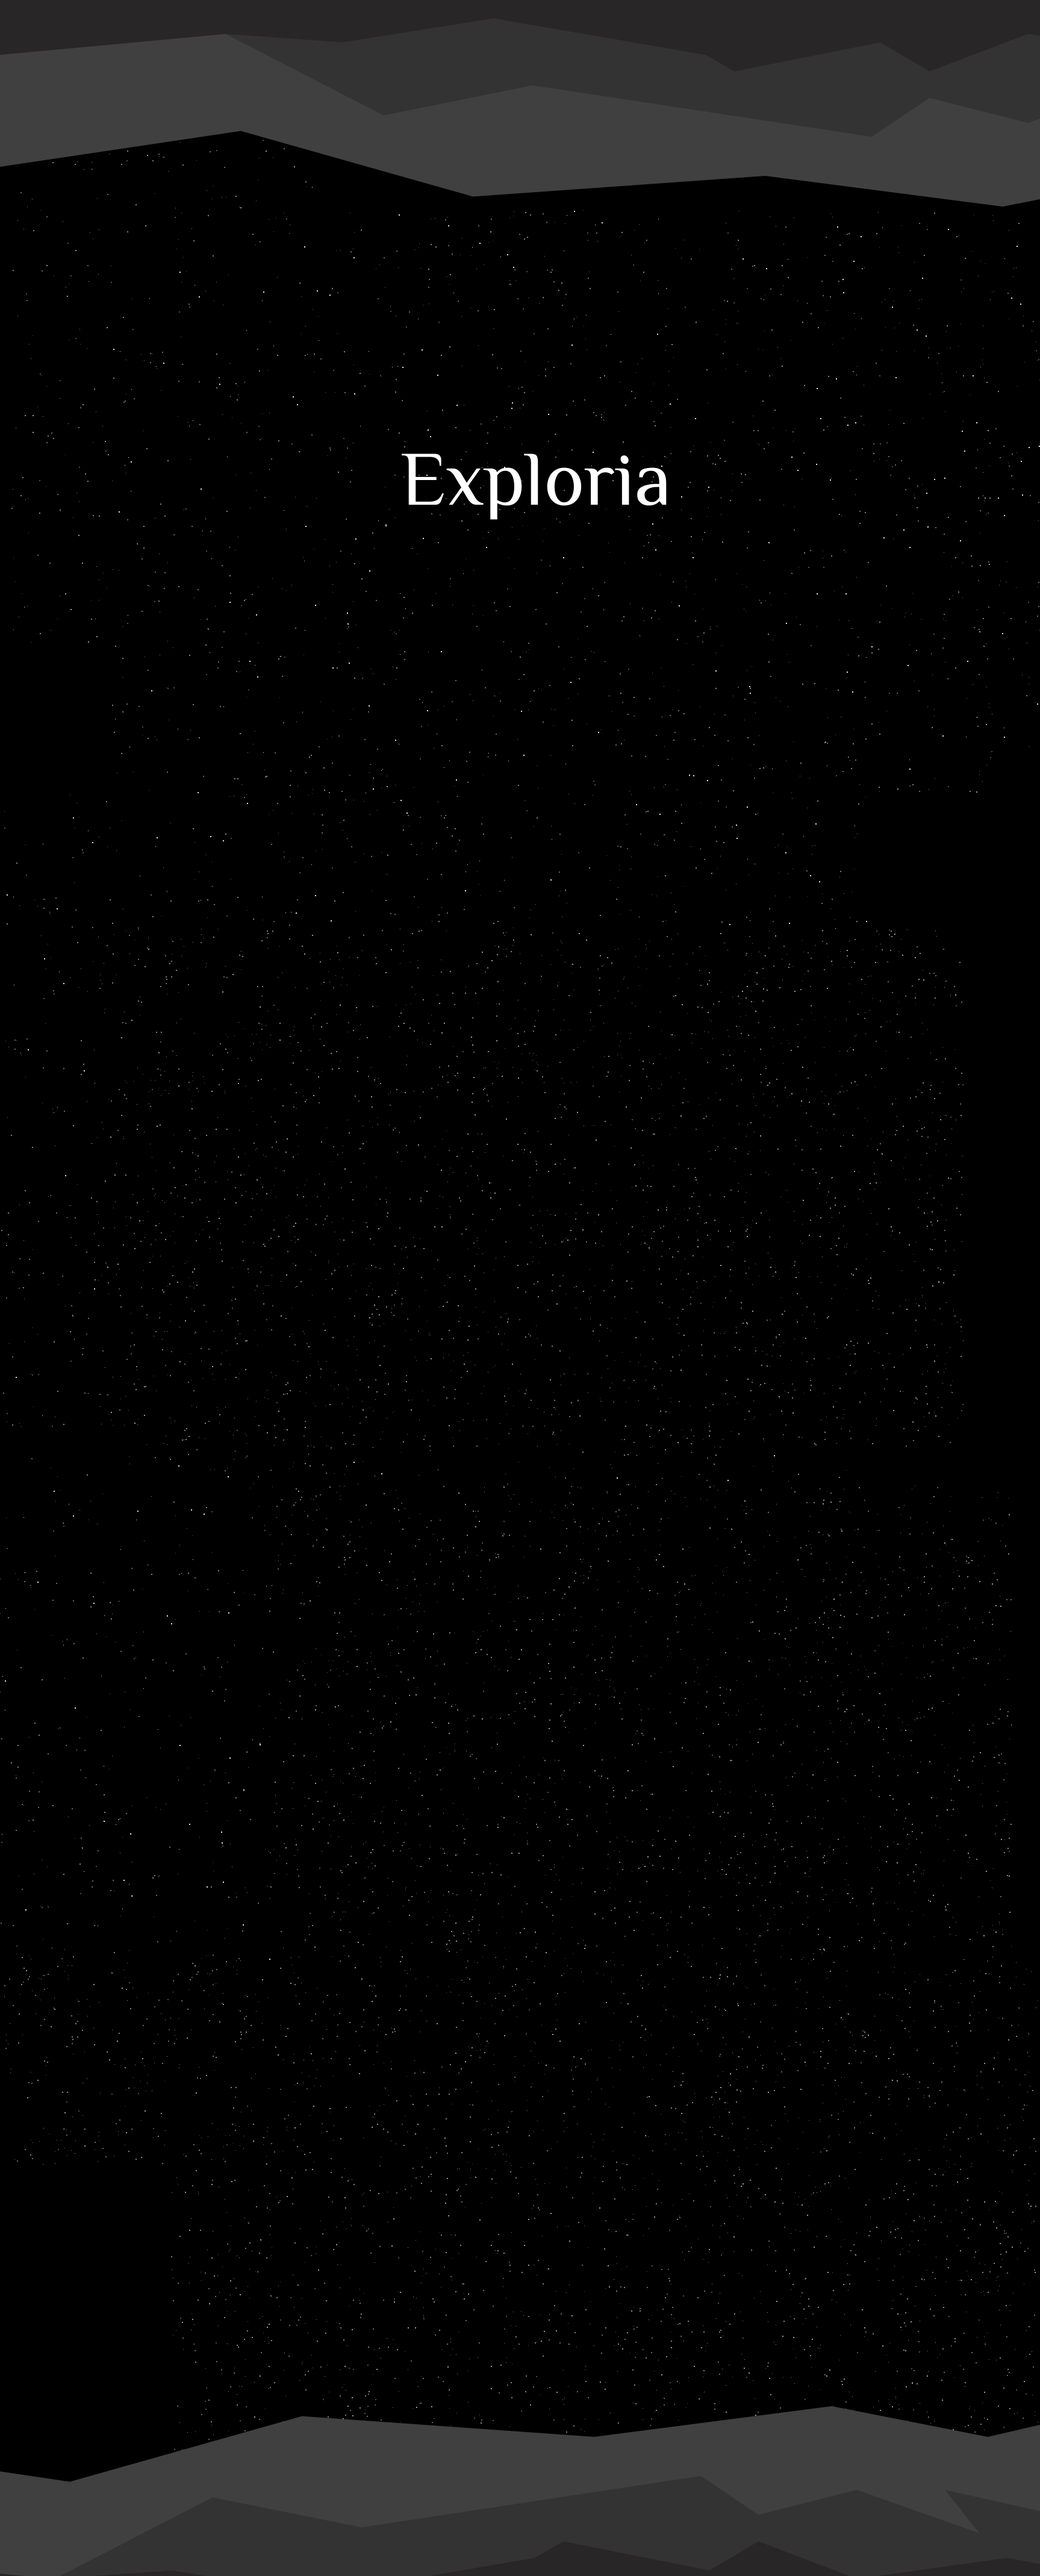
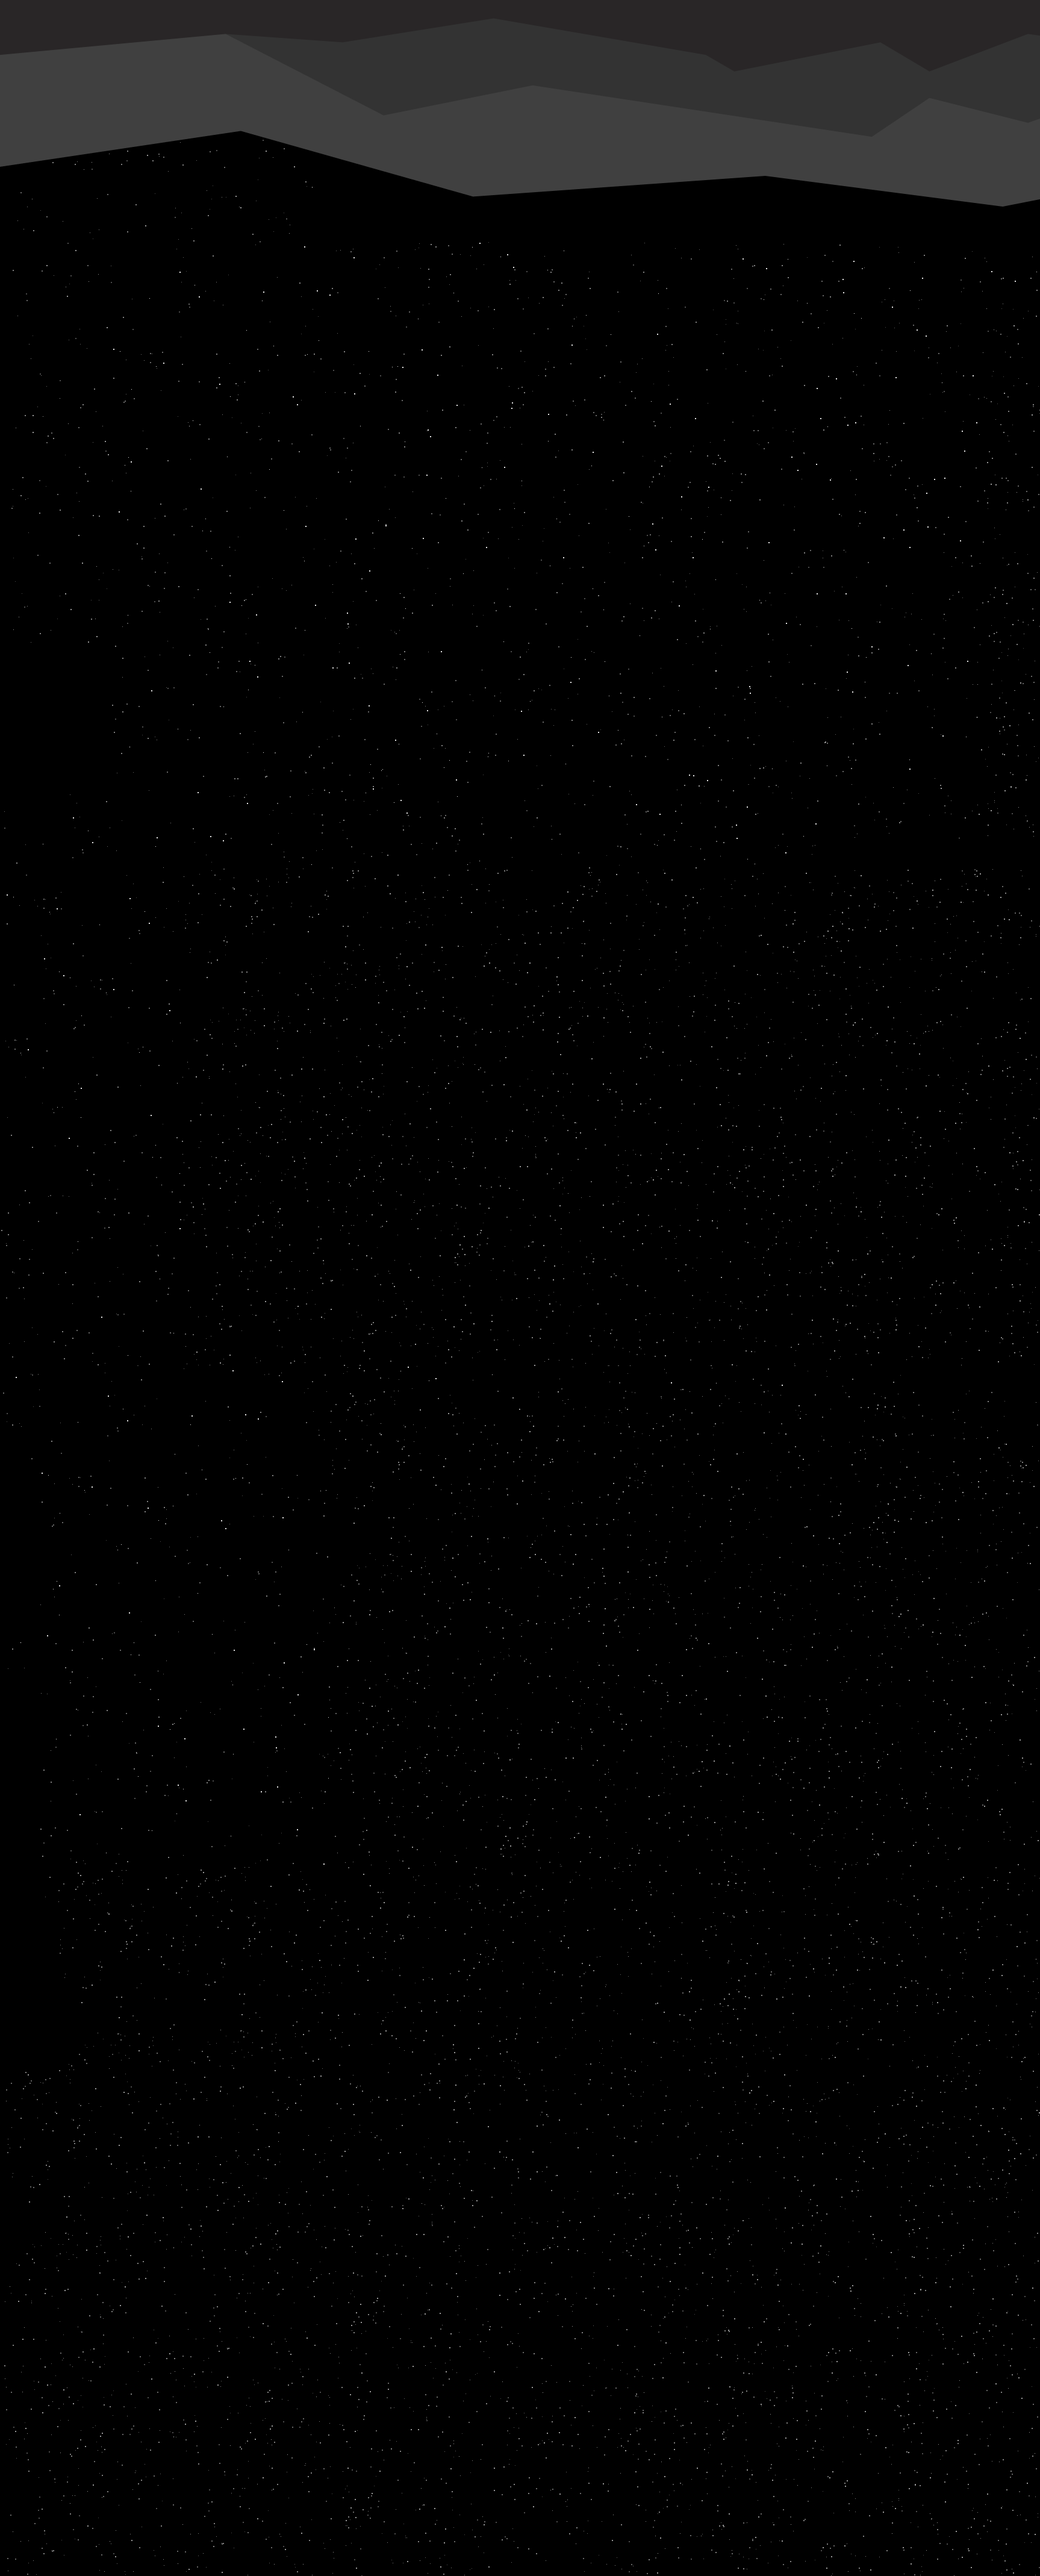
ADD: changed the bg adjusted site for mobile devices

Changed region(s): [[0.0, 0.9329, 1.0, 1.0], [0.4296, 0.1555, 0.5831, 0.2177], [0.6138, 0.1866, 0.6445, 0.2177]]

diff --git a/styles.css b/styles.css
@@ -10,51 +10,71 @@
 }
 body {
     font-family: VeniceSerif;
-    background: url("./images/bg-sm.png");
-    background-size:cover;
     min-height:100vh;
-    height:100vh;
     background-repeat:no-repeat;
     color: gray;
+
+   
+    
+}
+img {
+    width: 95vw;
+}
+main {
+    height:100vh;
     display:flex;
-    justify-content:center;
-    align-items:center;
+    background: url("./images/bg-sm.png");
+    background-size:cover;
+    flex-direction: column;
     
+
     
+}
+
+.logo {
+    margin: 0 auto;
+    padding-top: 4em;
+}
+.headerText {
+    position: relative;
+    top:6em;
+    width:85%;
+    text-align:center;
+    margin: 0 auto;
 }
 
 .links {
     display:flex;
-    flex-direction:column;
-    justify-content:center;
-    align-items:center;
-    
+    flex-direction: column;
+    justify-content: flex-end;
+    align-items: center;
+    gap:3em;
 }
-
-a{
-    display:block;
-    text-decoration:none;
-    font-size:2em;
-    color:#fff;
-
-    
+a {
+    text-decoration: none;
+    color: rgb(201, 201, 201);
+    font-size: 2em;
 }
+    
 a:hover {
     color:#616161;
 }
 
 @media  (min-width:500px){
-    body {
+    main {
         background: url("./images/bg.png");
         background-size:cover;
-        padding-top:24em;
+        height:100vh;
+        
     }
-
     .links {
         flex-direction: row;
         justify-content: space-around;
         gap:5em;
         font-size:2em;
 
+    }
+    img {
+        width:50vw;
     }
 }

diff --git a/index.html b/index.html
@@ -8,6 +8,11 @@
     <title>Exploria</title>
 </head>
 <body>
+    <main>
+        <section class="logo">
+            <h4 class="headerText">Department of Computer Science, Union Christian College Aluva presents</h4>
+            <img src="./images/logo.png" alt="" srcset="">
+        </section>
     <div class="links">
         
         <a href="https://drive.google.com/file/d/1vo-tbCGMvVzqJSrCxqybToWGnutM1ogN/view?usp=drive_link" target="_blank" class="link">Details</a>
@@ -15,5 +20,6 @@
         <a href="https://docs.google.com/forms/d/18DsU4qqKedPZFAdqg0mLzBjmtICq4aqsRO5vjtjWjyo/edit?usp=forms_home&ths=true" class="link">Register</a>
         
         <a href="./about.html" class="link">About</a></div>
+    </main>
 </body>
 </html>
